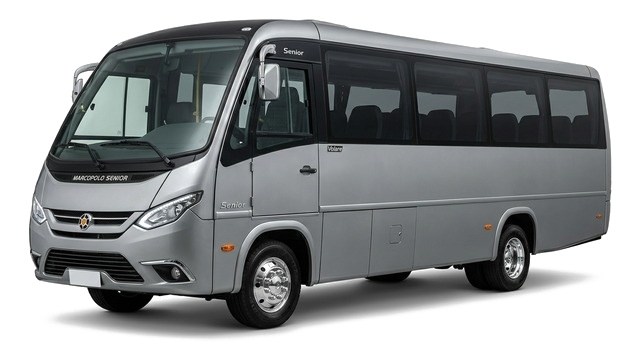
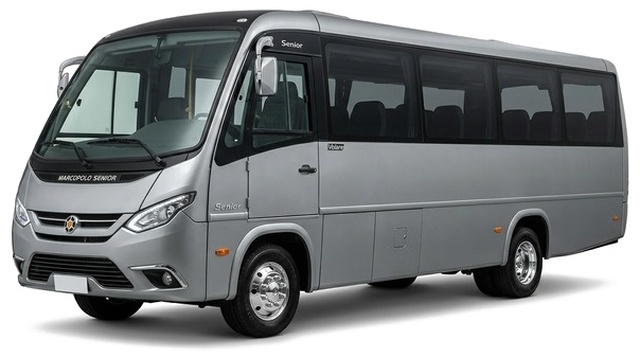
feat: expandir carros para ocupar todo o espaco do card com corte justo das imagens e altura ampliada

diff --git a/static/css/style.css b/static/css/style.css
@@ -2665,34 +2665,50 @@ body {
   transform: translateY(-2px);
 }
 
-/* Container da Imagem do Modelo no Card de Cotação - Imagem Limpa sem Moldura */
+/* Container da Imagem do Modelo no Card de Cotação - Ocupando todo o espaço do quadrado */
 .drvn-model-radio-img-box {
   background: transparent !important;
   border: none !important;
   border-radius: 0;
-  height: 82px;
   width: 100%;
   display: flex;
   align-items: center;
   justify-content: center;
-  margin: 2px 0 4px;
+  margin: 4px 0 6px;
   padding: 0;
   box-shadow: none !important;
 }
 
+.drvn-grid-3 .drvn-model-radio-img-box {
+  height: 140px;
+}
+
+.drvn-grid-4 .drvn-model-radio-img-box {
+  height: 110px;
+}
+
+.drvn-grid-5 .drvn-model-radio-img-box {
+  height: 96px;
+}
+
+.drvn-grid-2 .drvn-model-radio-img-box {
+  height: 150px;
+}
+
 .drvn-model-radio-img-box img {
-  max-height: 76px;
-  max-width: 96%;
-  width: auto;
-  height: auto;
+  width: 100%;
+  height: 100%;
+  max-width: 100%;
+  max-height: 100%;
   object-fit: contain;
   display: block;
   filter: none !important;
-  transition: transform 0.25s ease;
+  transform: scale(1.05);
+  transition: transform 0.28s cubic-bezier(0.16, 1, 0.3, 1);
 }
 
 .drvn-model-radio-card:hover .drvn-model-radio-img-box img {
-  transform: scale(1.06);
+  transform: scale(1.12);
 }
 
 .drvn-model-badge {
@@ -3267,21 +3283,27 @@ body {
   }
 
   /* 2 colunas de veículos lado a lado em celulares padrão (380px-767px) para facilitar comparação */
+  .drvn-model-picker-grid.drvn-grid-3,
   .drvn-model-picker-grid.drvn-grid-4,
   .drvn-model-picker-grid.drvn-grid-5 {
     grid-template-columns: repeat(2, minmax(0, 1fr)) !important;
     gap: 0.65rem !important;
   }
-  .drvn-model-radio-img-box {
-    height: 64px;
+  .drvn-model-radio-img-box,
+  .drvn-grid-3 .drvn-model-radio-img-box,
+  .drvn-grid-4 .drvn-model-radio-img-box,
+  .drvn-grid-5 .drvn-model-radio-img-box,
+  .drvn-grid-2 .drvn-model-radio-img-box {
+    height: 84px !important;
     border-radius: 0;
   }
   .drvn-model-radio-img-box img {
-    max-height: 58px;
-    max-width: 96%;
-    width: auto;
-    height: auto;
-    object-fit: contain;
+    max-height: 100% !important;
+    max-width: 100% !important;
+    width: 100% !important;
+    height: 100% !important;
+    object-fit: contain !important;
+    transform: scale(1.08) !important;
   }
   .drvn-model-card-title {
     font-size: 0.82rem;
@@ -3344,6 +3366,7 @@ body {
 
 /* Telas ultra-compactas (<= 370px, ex: iPhone SE / Galaxy Mini) */
 @media (max-width: 370px) {
+  .drvn-model-picker-grid.drvn-grid-3,
   .drvn-model-picker-grid.drvn-grid-4,
   .drvn-model-picker-grid.drvn-grid-5 {
     grid-template-columns: 1fr !important;

diff --git a/templates/cotacao.html b/templates/cotacao.html
@@ -75,7 +75,7 @@
                           <i class="bi bi-check-circle-fill drvn-check-indicator"></i>
                         </div>
                         <div class="drvn-model-radio-img-box text-center my-1">
-                          <img src="{{ m.imagem_real | default(m.imagem) }}?v=4" alt="{{ m.nome }}" class="img-fluid" loading="lazy">
+                          <img src="{{ m.imagem_real | default(m.imagem) }}?v=5" alt="{{ m.nome }}" class="img-fluid" loading="lazy">
                         </div>
                         <div class="drvn-model-card-title fw-bold" data-i18n="model_name_{{ m.id }}">{{ m.nome }}</div>
                       </div>

diff --git a/templates/base.html b/templates/base.html
@@ -36,7 +36,7 @@
   <link rel="stylesheet" href="https://cdn.jsdelivr.net/npm/swiper@11/swiper-bundle.min.css" />
 
   <!-- Custom Stylesheet (drvn Inspired) -->
-  <link rel="stylesheet" href="{{ url_for('static', filename='css/style.css') }}?v=93">
+  <link rel="stylesheet" href="{{ url_for('static', filename='css/style.css') }}?v=94">
   {% block extra_head %}{% endblock %}
 </head>
 <body id="top">
